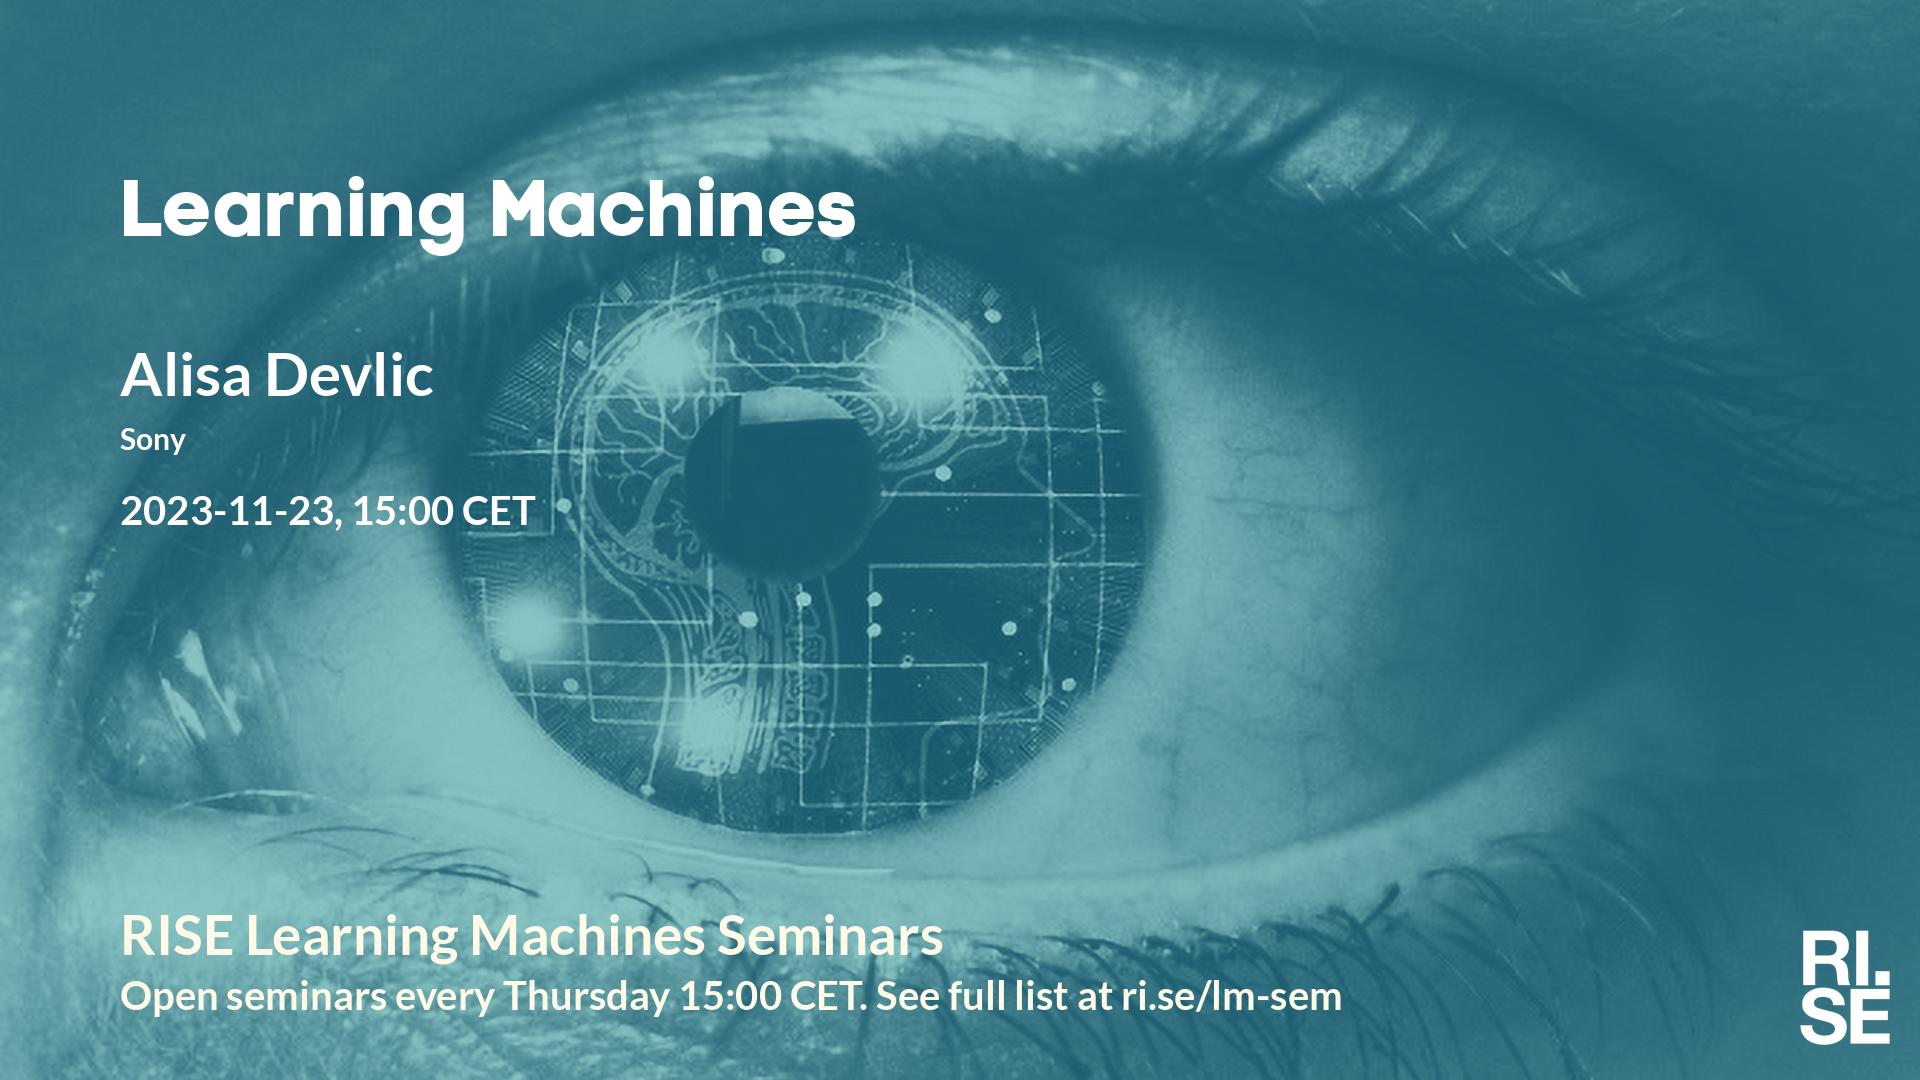
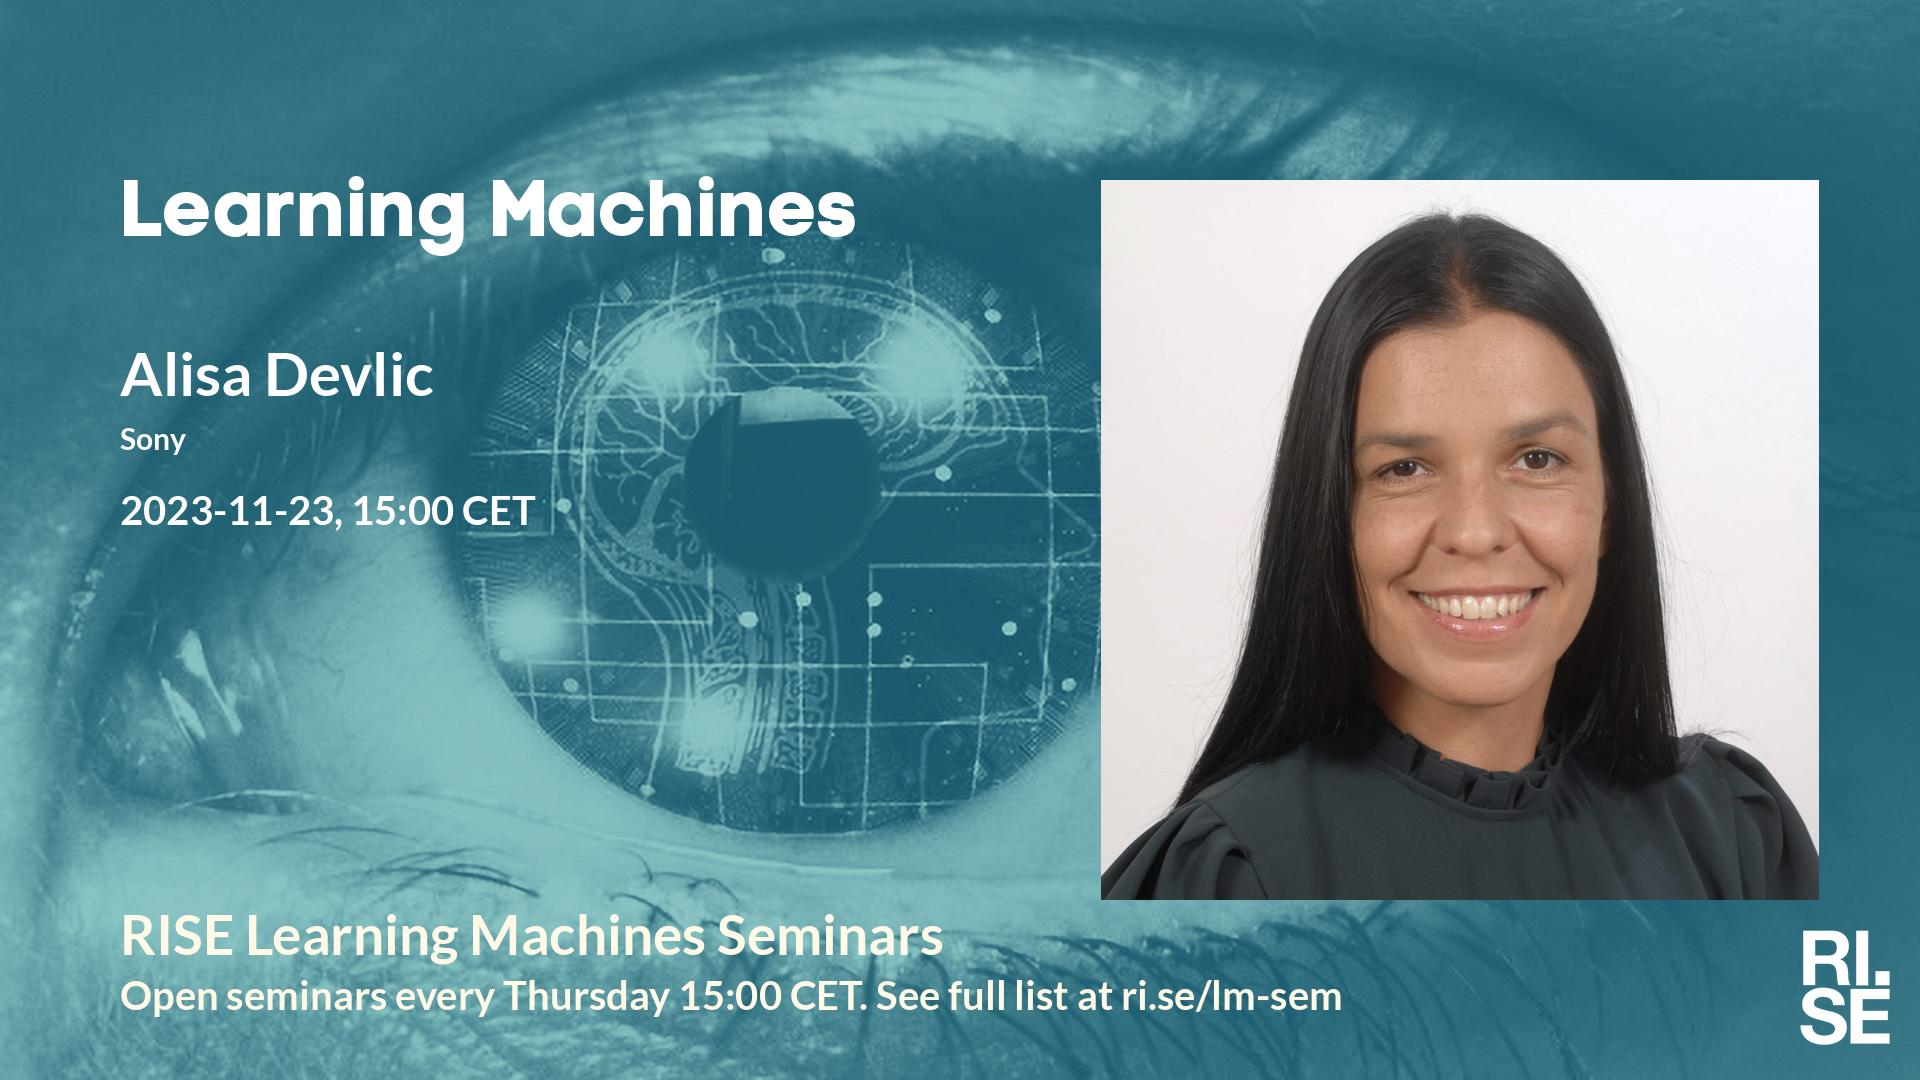
Updated plan on web site.

Changed region(s): [[0.5625, 0.1528, 0.9688, 0.8556]]

diff --git a/lm/index.md b/lm/index.md
@@ -13,7 +13,7 @@ table {border-collapse: collapse;}
 |  2023-11-02  |  [Priya Donti, MIT and Climate Change AI](2023-11-02.md)  |  [photo](photo-priya-donti.jpg)  |  [social media ](social-media-priya-donti.jpg)  |  [meeting backdrop ](meeting-backdrop-priya-donti.jpg)  |  [youtube thumbnail ](youtube-thumbnail-priya-donti.jpg)  |  STABP  |
 |  2023-11-09  |  [Nataša Sladoje, Uppsala University](2023-11-09.md)  |  [photo](photo-natasa-sladoje.jpg)  |  [social media ](social-media-natasa-sladoje.jpg)  |  [meeting backdrop ](meeting-backdrop-natasa-sladoje.jpg)  |  [youtube thumbnail ](youtube-thumbnail-natasa-sladoje.jpg)  |  STABP  |
 |  2023-11-16  |  [Jonas Hellgren, RISE](2023-11-16.md)  |  [photo](photo-jonas-hellgren.jpg)  |  [social media ](social-media-jonas-hellgren.jpg)  |  [meeting backdrop ](meeting-backdrop-jonas-hellgren.jpg)  |  [youtube thumbnail ](youtube-thumbnail-jonas-hellgren.jpg)  |  STABP  |
-|  2023-11-23  |  [Alisa Devlic, Sony](2023-11-23.md)  |    |  [social media ](social-media-alisa-devlic.jpg)  |  [meeting backdrop ](meeting-backdrop-alisa-devlic.jpg)  |  [youtube thumbnail ](youtube-thumbnail-alisa-devlic.jpg)  |  S~~TABP~~  |
+|  2023-11-23  |  [Alisa Devlic, Sony](2023-11-23.md)  |  [photo](photo-alisa-devlic.jpg)  |  [social media ](social-media-alisa-devlic.jpg)  |  [meeting backdrop ](meeting-backdrop-alisa-devlic.jpg)  |  [youtube thumbnail ](youtube-thumbnail-alisa-devlic.jpg)  |  S~~TAB~~P  |
 |  2023-11-30  |  [Ben Weinstein, University of Florida](2023-11-30.md)  |  [photo](photo-ben-weinstein.jpg)  |  [social media ](social-media-ben-weinstein.jpg)  |  [meeting backdrop ](meeting-backdrop-ben-weinstein.jpg)  |  [youtube thumbnail ](youtube-thumbnail-ben-weinstein.jpg)  |  STABP  |
 |  2023-12-07  |  [Stefan Bauer, TU Munich](2023-12-07.md)  |  [photo](photo-stefan-bauer.jpg)  |  [social media ](social-media-stefan-bauer.jpg)  |  [meeting backdrop ](meeting-backdrop-stefan-bauer.jpg)  |  [youtube thumbnail ](youtube-thumbnail-stefan-bauer.jpg)  |  STABP  |
 |  2023-12-14  |  [Fredrik Gustafsson, Karolinska Institutet](2023-12-14.md)  |  [photo](photo-fredrik-gustafsson.jpg)  |  [social media ](social-media-fredrik-gustafsson.jpg)  |  [meeting backdrop ](meeting-backdrop-fredrik-gustafsson.jpg)  |  [youtube thumbnail ](youtube-thumbnail-fredrik-gustafsson.jpg)  |  STABP  |
